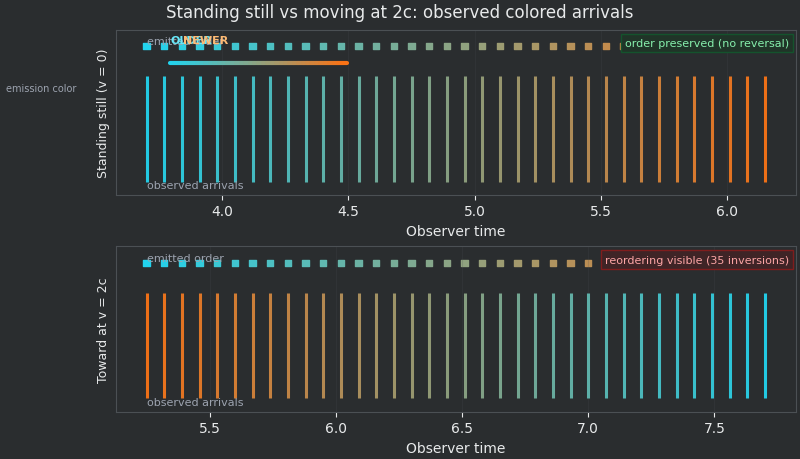
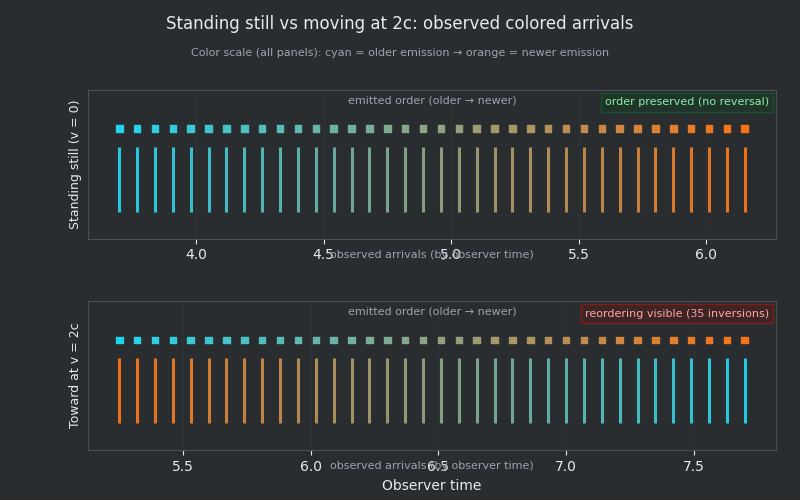
up

diff --git a/scripts/generate_doppler_gifs.py b/scripts/generate_doppler_gifs.py
@@ -64,7 +64,10 @@ def wave_color(te: float, t_color_max: float):
     return WAVE_CMAP(x)
 
 
-def draw_wave_age_legend(ax, x0: float, x1: float, y: float) -> None:
+def draw_wave_age_legend(
+    ax, x0: float, x1: float, y: float, *, show_sublabel: bool = True
+) -> None:
+    """Horizontal emission-age bar with labels (uses offset points so text is not placed in data units)."""
     n = 40
     xs = np.linspace(x0, x1, n + 1)
     for i in range(n):
@@ -77,9 +80,43 @@ def draw_wave_age_legend(ax, x0: float, x1: float, y: float) -> None:
             solid_capstyle="round",
             zorder=9,
         )
-    ax.text(x0, y + 0.12, "OLDER", color="#67E8F9", fontsize=8, weight="bold")
-    ax.text(x1 - 0.65, y + 0.12, "NEWER", color="#FDBA74", fontsize=8, weight="bold")
-    ax.text((x0 + x1) / 2 - 1.0, y - 0.17, "emission color", color=FG_MUTED, fontsize=7)
+    bar_left, bar_right = float(xs[0]), float(xs[-1])
+    ax.annotate(
+        "OLDER",
+        xy=(bar_left, y),
+        xytext=(0, 10),
+        textcoords="offset points",
+        ha="center",
+        va="bottom",
+        color="#67E8F9",
+        fontsize=8,
+        weight="bold",
+        zorder=10,
+    )
+    ax.annotate(
+        "NEWER",
+        xy=(bar_right, y),
+        xytext=(0, 10),
+        textcoords="offset points",
+        ha="center",
+        va="bottom",
+        color="#FDBA74",
+        fontsize=8,
+        weight="bold",
+        zorder=10,
+    )
+    if show_sublabel:
+        ax.annotate(
+            "emission color",
+            xy=((bar_left + bar_right) / 2, y),
+            xytext=(0, -12),
+            textcoords="offset points",
+            ha="center",
+            va="top",
+            color=FG_MUTED,
+            fontsize=7,
+            zorder=10,
+        )
 
 
 def repo_root() -> str:
@@ -481,18 +518,34 @@ def make_arrival_wavefronts_summary(
     t_color_max = max(float(t_emit[-1]), DT_EMIT)
     emitted_colors = [wave_color(float(te), t_color_max) for te in t_emit]
 
+    fig_h = 5.0 if len(scenarios) <= 2 else 7.0
     fig, axes = plt.subplots(
         len(scenarios),
         1,
-        figsize=(8.0, 4.6 if len(scenarios) <= 2 else 6.6),
+        figsize=(8.0, fig_h),
         dpi=DPI,
-        constrained_layout=True,
+        constrained_layout=False,
         sharex=False,
     )
     if len(scenarios) == 1:
         axes = [axes]
     fig.patch.set_facecolor(BG)
-    fig.suptitle(suptitle, fontsize=12, color=FG)
+    # Room above panels for title + color note; room below for bottom captions.
+    fig.subplots_adjust(left=0.11, right=0.97, top=0.82, bottom=0.10, hspace=0.42)
+    fig.suptitle(suptitle, fontsize=12, color=FG, y=0.97)
+    fig.text(
+        0.5,
+        0.905,
+        "Color scale (all panels): cyan = older emission → orange = newer emission",
+        ha="center",
+        va="top",
+        fontsize=8,
+        color=FG_MUTED,
+    )
+
+    # Vertical bands (axis coords): keep data in the middle; labels live in margins.
+    y_v0, y_v1 = 0.18, 0.62
+    y_emit = 0.74
 
     for ax, (scenario, label) in zip(axes, scenarios):
         style_axes_dark(ax)
@@ -508,7 +561,7 @@ def make_arrival_wavefronts_summary(
         colors_sorted = [wave_color(float(te), t_color_max) for te in emit_sorted]
 
         # Vertical "wavefronts" arriving at observer
-        ax.vlines(t_arr_sorted, 0.08, 0.72, colors=colors_sorted, linewidth=2.2, alpha=0.95)
+        ax.vlines(t_arr_sorted, y_v0, y_v1, colors=colors_sorted, linewidth=2.2, alpha=0.95)
 
         # Reference strip for emitted order (always OLDER -> NEWER)
         x0 = float(np.min(t_arr_sorted))
@@ -516,9 +569,30 @@ def make_arrival_wavefronts_summary(
         if x1 - x0 < 1e-6:
             x1 = x0 + 1.0
         xs = np.linspace(x0, x1, len(t_emit))
-        ax.scatter(xs, np.full_like(xs, 0.90), c=emitted_colors, s=20, marker="s")
-        ax.text(x0, 0.96, "emitted order", color=FG_MUTED, fontsize=8, va="top")
-        ax.text(x0, 0.03, "observed arrivals", color=FG_MUTED, fontsize=8, va="bottom")
+        ax.scatter(xs, np.full_like(xs, y_emit), c=emitted_colors, s=22, marker="s", zorder=5)
+
+        ax.text(
+            0.5,
+            0.895,
+            "emitted order (older → newer)",
+            transform=ax.transAxes,
+            ha="center",
+            va="bottom",
+            fontsize=8,
+            color=FG_MUTED,
+            clip_on=False,
+        )
+        ax.text(
+            0.5,
+            -0.075,
+            "observed arrivals (by observer time)",
+            transform=ax.transAxes,
+            ha="center",
+            va="top",
+            fontsize=8,
+            color=FG_MUTED,
+            clip_on=False,
+        )
 
         # Arrival order vs emission index order (order = argsort by arrival time).
         reversed_count = int(np.sum(np.diff(order) < 0))
@@ -545,12 +619,8 @@ def make_arrival_wavefronts_summary(
         )
 
         ax.grid(alpha=0.2, color=EDGE, axis="x")
-        ax.set_xlabel("Observer time", color=FG)
 
-    # Global color meaning
-    ax0 = axes[0]
-    x_lim = ax0.get_xlim()
-    draw_wave_age_legend(ax0, x_lim[0] + 0.08 * (x_lim[1] - x_lim[0]), x_lim[0] + 0.34 * (x_lim[1] - x_lim[0]), 0.80)
+    axes[-1].set_xlabel("Observer time", color=FG)
 
     fig.savefig(path)
     plt.close(fig)

diff --git a/_includes/code/generate_doppler_gifs.py b/_includes/code/generate_doppler_gifs.py
@@ -1,0 +1,1 @@
+../../scripts/generate_doppler_gifs.py

diff --git a/_posts/2026-04-19-doppler-effect.md b/_posts/2026-04-19-doppler-effect.md
@@ -181,3 +181,11 @@ Compare **standing still** (arrivals keep the same ordering as emission) with **
 ![Stacked vertical wave arrivals: standing still vs toward at 2c](/assets/img/doppler/arrival_wavefronts_still_vs_2c.png)
 
 For the supersonic case, parts of the arrival sequence can run “backwards” relative to emission order, which is one way to think about why the perceived waveform can sound scrambled compared with what left the siren.
+
+### Code
+
+Run from the `scripts/` directory. You need **matplotlib**, **numpy**, **pydub**, and **ffmpeg** on your `PATH` for muxed video. The siren MP3 used for audio lives next to the script as `(MP3) DRIETONIGE SIRENE NEDERLANDSE AMBULANCE.mp3`.
+
+{% highlight python %}
+{% include code/generate_doppler_gifs.py %}
+{% endhighlight %}
